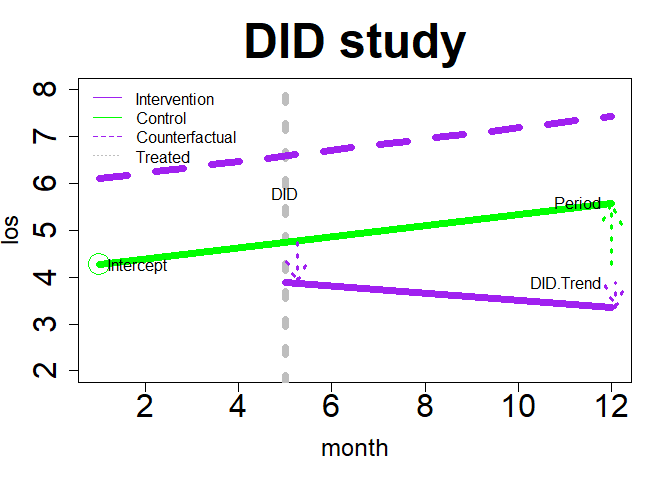
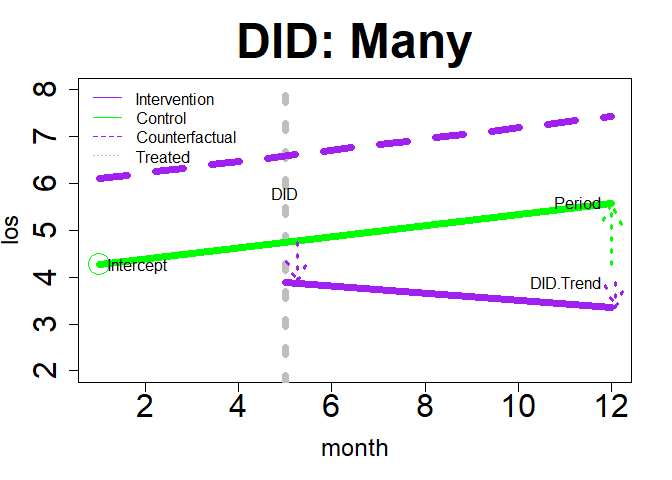
plot.assess DID many readme

Changed region(s): [[0.3438, 0.0312, 0.7188, 0.1562]]

diff --git a/README.md b/README.md
@@ -859,7 +859,7 @@ plot(dm1, "DID", add.legend="bottom", ylim=c(2, 8), main="DID: Two",
 <img src="man/figures/README-revDID1-1.png" width="100%" />
 
 ``` r
-plot(dm2, "DID", add.legend="topleft", ylim=c(2, 8), main="DID study",
+plot(dm2, "DID", add.legend="topleft", ylim=c(2, 8), main="DID: Many",
      col=c("purple","green"), lwd=7,
      cex=3, cex.axis=2, cex.lab=1.5,  cex.main=3, arrow=TRUE, xshift=c(.25, .1) )
 ```
@@ -895,7 +895,7 @@ plot(im21, "ITS", add.legend="top", xlim=c(.75, 12), ylim=c(2, 8),
 ``` r
 plot(im22, "ITS", add.legend="top", xlim=c(.75, 12), ylim=c(2, 8), 
      main="ITS study: MGMT", col=c("dodgerblue","goldenrod"), lwd=7,
-     cex=3, cex.axis=2, cex.lab=1.5,  cex.main=3, arrow=TRUE, xshift=c(.25, .25) )
+     cex=3, cex.axis=2, cex.lab=1.5,  cex.main=3, arrow=TRUE, xshift=c(.5, .25) )
 ```
 
 <img src="man/figures/README-revITS4-1.png" width="100%" />
